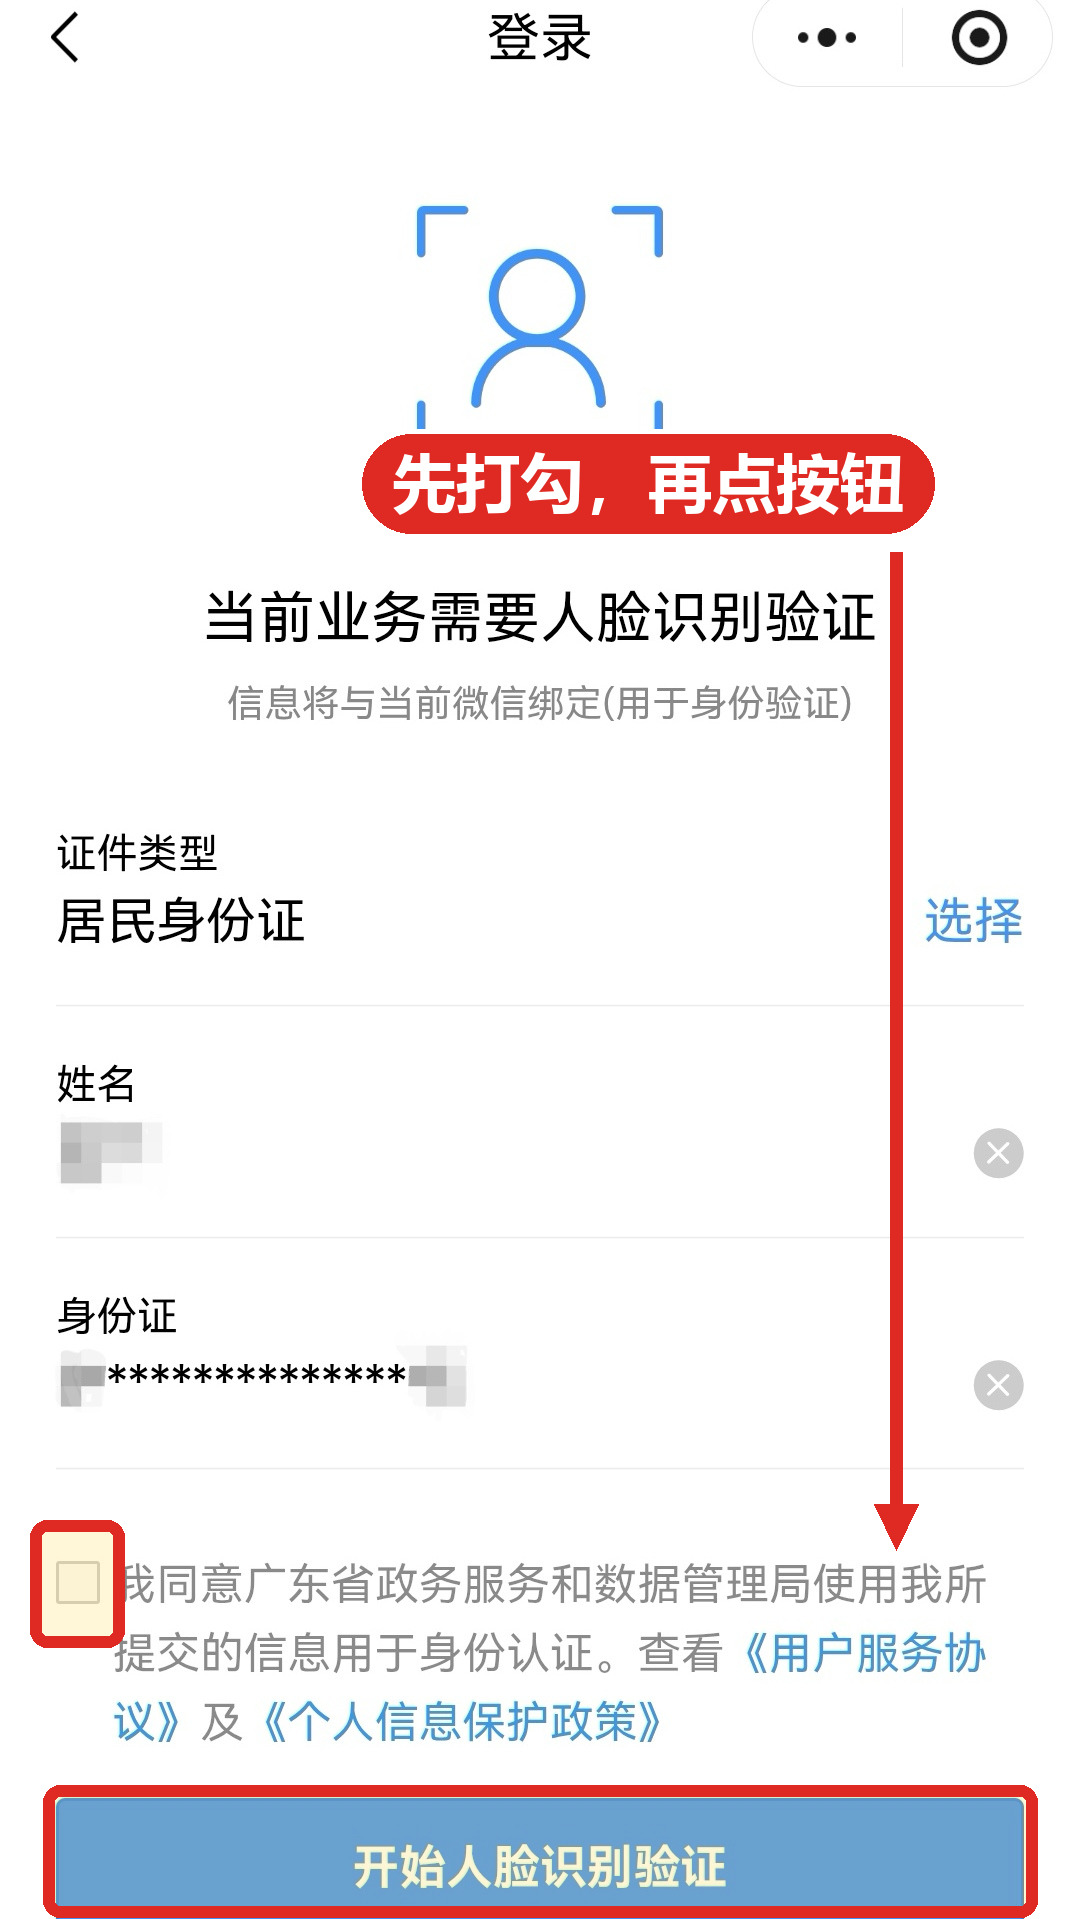
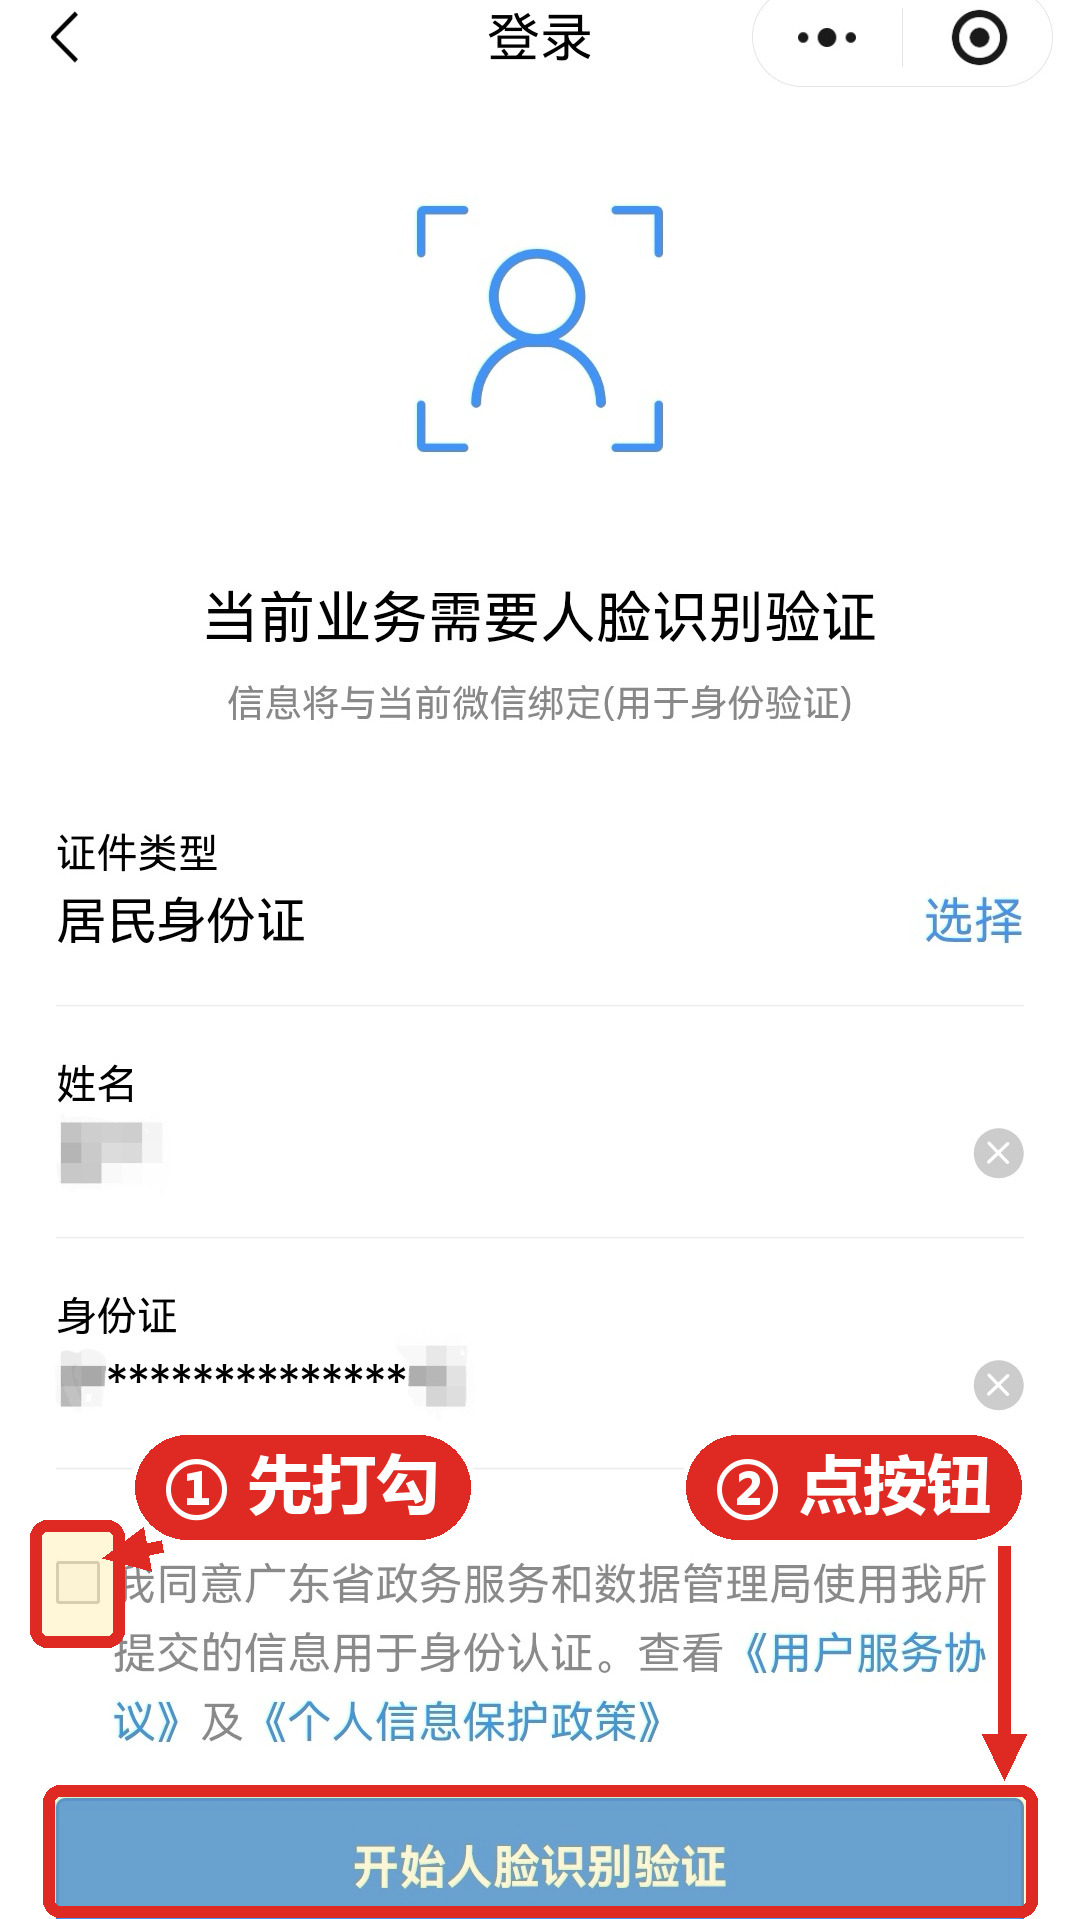
Annotate all 11 screenshots with red tap-target boxes and arrows

Changed region(s): [[0.3361, 0.2152, 0.9472, 0.9224], [0.0917, 0.7379, 0.4583, 0.8301]]

diff --git a/index.html b/index.html
@@ -543,7 +543,7 @@
         <img class="shot" loading="lazy" decoding="async" src="07_登录页_人脸识别验证填写证件信息.jpg" alt="人脸识别验证页" width="576" height="1024">
         <span class="zoom-hint">点击放大</span>
       </div>
-      <p class="shot-note">图中个人信息已作遮蔽处理</p>
+      <p class="shot-note">① 先打勾 → ② 再点按钮刷脸（图中个人信息已遮蔽）</p>
     </article>
 
     <article class="step reveal">
